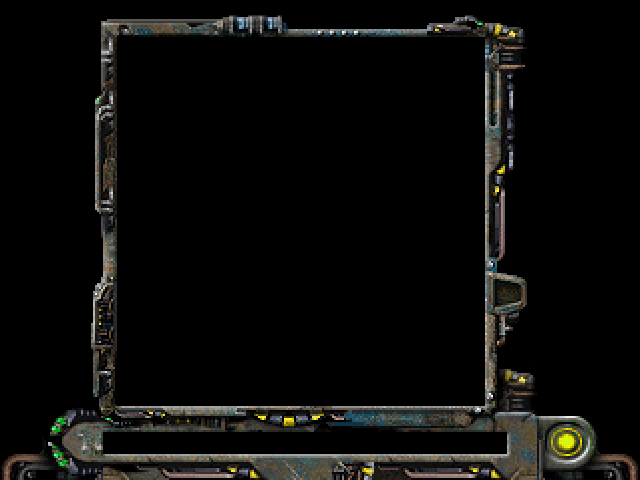
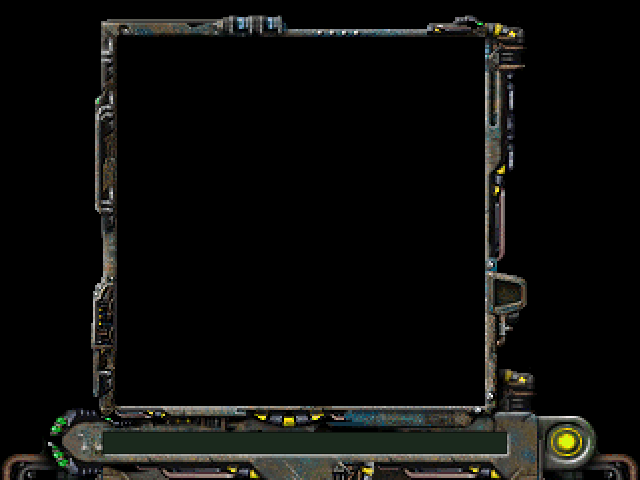
Added Messages

Changed region(s): [[0.1562, 0.875, 0.8125, 0.9688]]

diff --git a/game.js b/game.js
@@ -14,6 +14,9 @@ class mainScene extends Phaser.Scene {
 
     preload() {
         this.load.image('background', 'assets/background.png');
+        this.load.image('message', 'assets/message.png');
+        this.load.image('shuffling', 'assets/shuffling.png');
+        this.load.image('complete', 'assets/complete.png');
         for (let i = 1; i < 10; i++) {
             this.load.spritesheet(`puzzle${i}`, `assets/puzzle${i}.png`, { frameWidth: 122, frameHeight: 122 });
         }
@@ -34,6 +37,7 @@ class mainScene extends Phaser.Scene {
         this.cur_pos = {x:(Math.floor(EMPTY[puzzle_id]/3)), y:(EMPTY[puzzle_id]%3)}
 
         this.add.image(320, 240, 'background');
+        
         this.pieces = []
         
         for (let i = 0; i < 3; i++) {
@@ -43,6 +47,8 @@ class mainScene extends Phaser.Scene {
             }
             this.pieces.push(row);
         }
+        this.message = this.add.image(105, 434, 'message').setOrigin(0);
+        this.message.setTexture('message');
     }
 
     staging() {
@@ -63,8 +69,9 @@ class mainScene extends Phaser.Scene {
             }
         }
         this.staging_step += 1;
-        if (this.staging_step >= 200) {
+        if (this.staging_step >= 150) {
             this.sound.play('slide');
+            this.message.setTexture('message');
         }
         
     }
@@ -98,7 +105,9 @@ class mainScene extends Phaser.Scene {
             this.cur_pos.y = new_pos.y;
             if(sound) {this.sound.play('slide');}
         }
-        this.is_complete();
+        if(this.is_complete()) {
+            this.message.setTexture('complete');
+        }
         return moving;
     }
 
@@ -117,6 +126,7 @@ class mainScene extends Phaser.Scene {
             this.scene.restart();
         }
         if (this.staging_step < 150) {
+            this.message.setTexture('shuffling');
             this.staging();
             return;
         }
